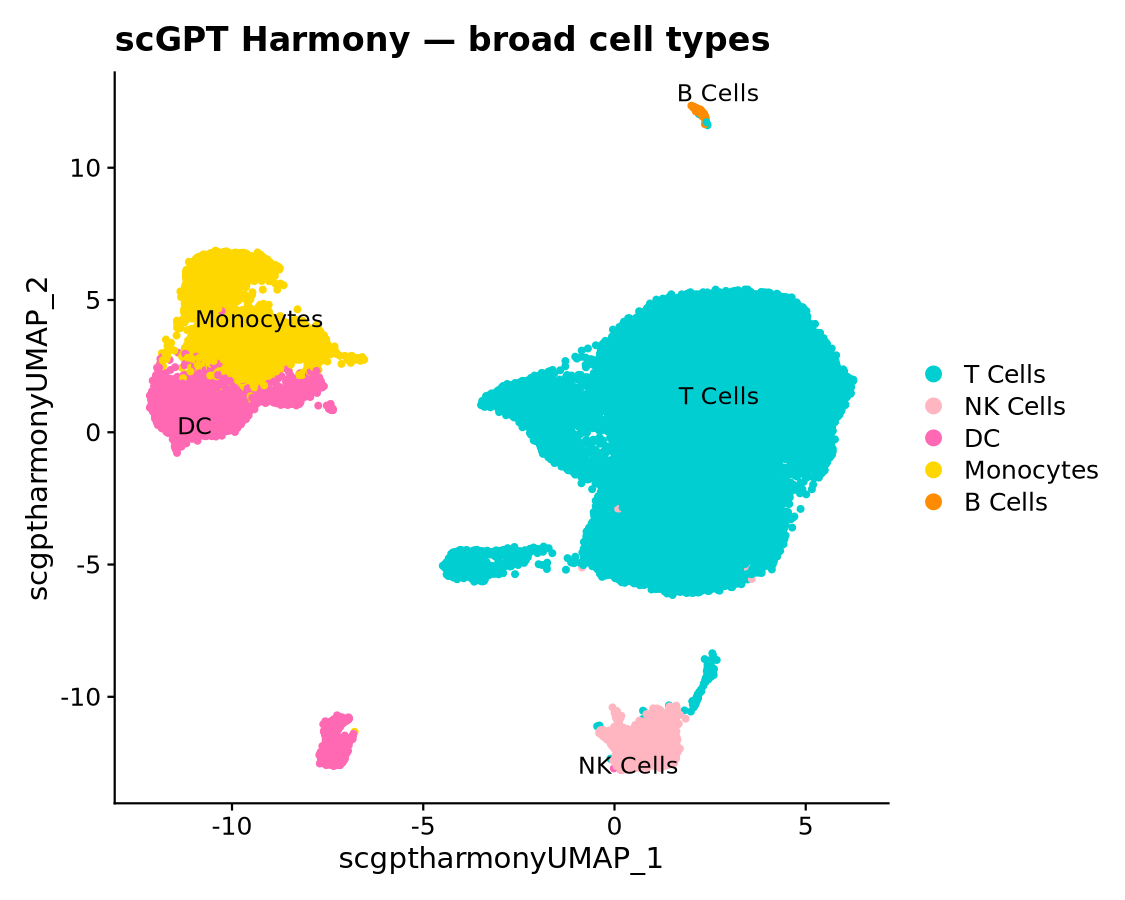
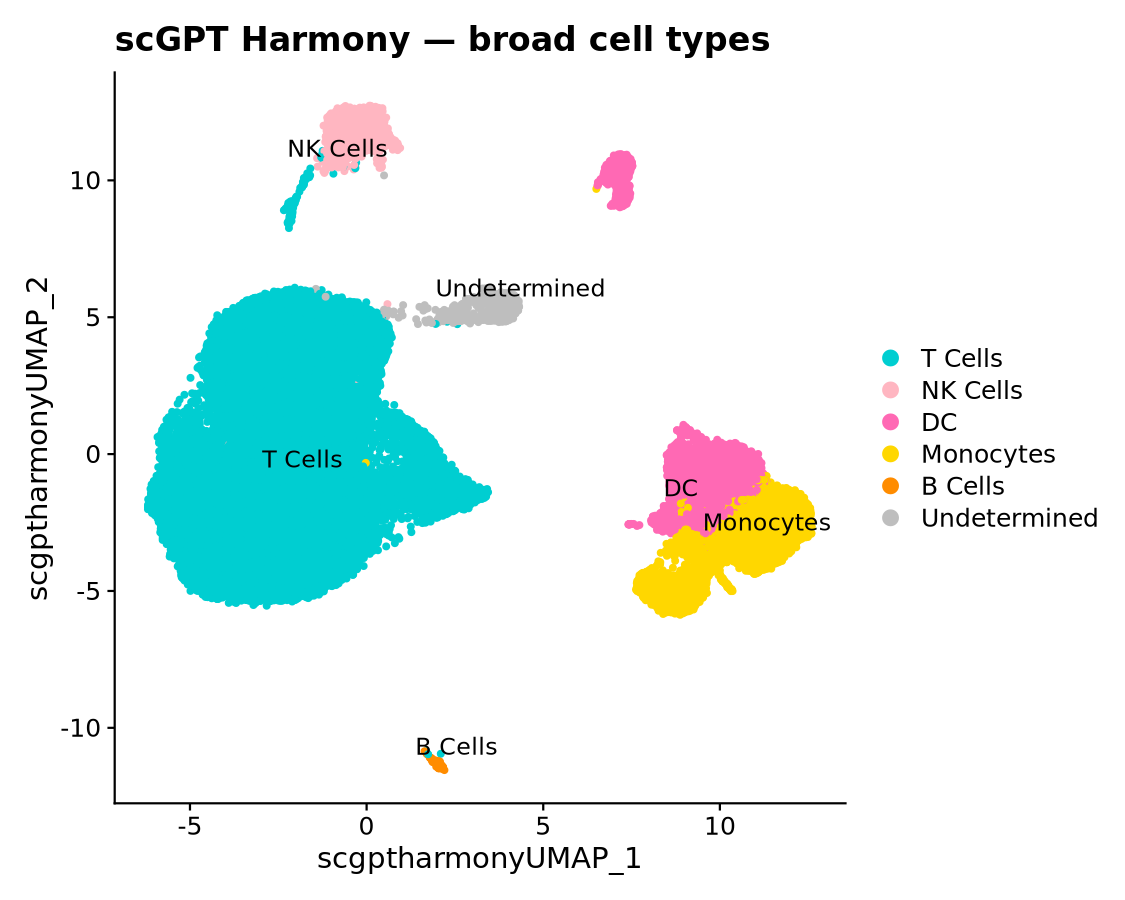
Annotate the rebuilt PCA arm and the current scGPT labels (Stage 15)
PCA cluster 3 (macrophage-like) is filed under Monocytes; PCA cluster 8 and
scGPT cluster 7, the same XIST/long-gene cells, are Undetermined. Docs and
the 08 README carry the new counts.

diff --git a/01_PROJECT_OVERVIEW/ANALYSIS_WALKTHROUGH.md b/01_PROJECT_OVERVIEW/ANALYSIS_WALKTHROUGH.md
@@ -29,12 +29,11 @@ as possible (SCT residuals, the quantity their integration consumes). On that fo
 neither representation wins on geometry: each partition scores best in its own space
 (PCA 0.176 in PCA space, scGPT 0.220 in scGPT space), and that holds at matched 512
 dimensions. After Harmony PCA mixes donors better locally (0.969 against 0.866), with
-lower donor NMI (0.038 against 0.051). Biological agreement is being redone for the
-rebuilt PCA arm.
+lower donor NMI (0.038 against 0.051). Both arms recover the same broad cell types,
+within 119 cells for every identity.
 
 **What remains unknown.** Whether the arms differ in biology at finer resolution:
-T-cell and monocyte subtypes. The broad annotation (Stage 15) is pending for the
-rebuilt PCA arm.
+T-cell and monocyte subtypes.
 
 **Immediate next step.** Recluster the T cells, then the monocytes, in both arms, and
 compare the subtype annotations.
@@ -703,18 +702,80 @@ cells.
 
 Both arms were run through the same marker discovery and evidence stages on the
 rebuilt PCA arm. The evidence tables are in `Age_trajectory/results/14_marker_evidence/`.
-Reading them into cell types is Stage 15 and is pending (section 8).
+Reading them into cell types is Stage 15 (section 8).
 
 ---
 
 ## 8. Broad cell-type annotation
 
-**Pending.** The hand annotation (Stage 15) was done on the earlier PCA arm (13
-clusters, built from the SCT `data` layer) and on the earlier `scgpt_harmony` labels.
-Both partitions have since changed, so those assignments no longer apply and their
-counts are not reported here. Stage 15 will be rerun after the proposed assignments
-for the rebuilt PCA arm are approved. The earlier results are in
-`Age_trajectory/results_superseded_2026-11-22/`.
+```mermaid
+flowchart TD
+    A[("Stage 14 · cluster_evidence_table.csv<br/>feature plots + panel percentages")]
+    B["<b>a person reads the evidence</b><br/><i>one decision per cluster, typed in</i>"]
+
+    C["<b>PCA-15 Harmony</b> · 12 clusters<br/>T 0,1,2,4,10 · Mono 3,7<br/>DC 5,9 · NK 6 · B 11 · Undet. 8"]
+    D["<b>scGPT Harmony</b> · 11 clusters<br/>T 0,1,4,10 · Mono 2,6<br/>DC 3,8 · NK 5 · B 9 · Undet. 7"]
+
+    E{"every cluster assigned once,<br/>every label one of the seven?"}
+    F["<b>stop</b><br/><i>a mistyped cluster number would<br/>silently drop cells from the figure</i>"]
+
+    G["<b>identity column per arm</b><br/>joined to the frozen labels by barcode"]
+    H(["annotated_cluster_labels.csv.gz<br/>annotation_rationale.csv<br/>15_celltypes_*.png"])
+
+    A --> B
+    B --> C --> E
+    B --> D --> E
+    E -->|no| F
+    E -->|yes| G --> H
+
+    style C fill:#dbe8f5,stroke:#4a6a8a
+    style D fill:#f0dbe8,stroke:#8a4a6a
+    style F fill:#f5d5d5,stroke:#a05050
+    style H fill:#d4e8d4,stroke:#4a7a4a
+```
+
+### What was done
+
+Following the authors, each cluster was assigned by hand, from its evidence row and
+feature plots, to one of their seven broad categories. This is only the authors' first
+pass. Their finer labels come from reclustering, which has not been done yet. Cluster
+numbers mean nothing across arms, so each arm was read from its own plots. The
+assignments were made on the rebuilt PCA arm (SCT residuals) and the current
+`scgpt_harmony` labels; the earlier annotation is superseded.
+
+Two judgement calls:
+- **PCA cluster 3** (5,267 cells: APOE, C1Q genes, LYVE1; CD14 and CD68 high) is
+  macrophage-like. It is filed under Monocytes because the authors' categories have
+  nothing closer.
+- **PCA cluster 8** (821 cells) is dominated by XIST and long-transcript genes (SYNE2,
+  MACF1, UTRN), with no canonical lineage marker above 50%. It spans 58 patients, so it
+  is not one donor's cells. It is Undetermined, a category the authors also used. The
+  same cells form scGPT cluster 7 (85% of PCA cluster 8 lands there), which gets the
+  same label.
+
+**Code.** `02_CODE/15_annotate_clusters.R`.
+
+![Broad cell types over the PCA-15 Harmony UMAP](../Age_trajectory/results/figures/15_celltypes_pca15_harmony_cluster.png)
+
+![Broad cell types over the scGPT Harmony UMAP](../Age_trajectory/results/figures/15_celltypes_scgpt_harmony_cluster.png)
+
+| identity | PCA-15 Harmony | scGPT Harmony | difference |
+| --- | --- | --- | --- |
+| T Cells | 54,803 | 54,684 | 119 |
+| Monocytes | 7,387 | 7,470 | 83 |
+| DC | 4,794 | 4,849 | 55 |
+| NK Cells | 2,369 | 2,305 | 64 |
+| B Cells | 217 | 208 | 9 |
+| Undetermined | 821 | 875 | 54 |
+
+### Conclusion
+
+Both representations recover nearly identical broad immune populations, within 119
+cells for every identity. `Plasma Cells` went unused in both arms. PCA's one extra
+cluster is a subdivision *within* T cells (PCA cluster 10, cycling cells; scGPT's cycling
+cluster 10 holds only 12% of them, and 60% sit in scGPT's large T cluster 1). At this resolution the arms are biologically equivalent.
+Both labels rest on the same hand reading, so agreement here does not say which
+partition is better.
 
 ---
 
@@ -765,8 +826,8 @@ flowchart LR
   Harmony-corrected.
 - **Separation tested.** Silhouette at native width, the PCA-512 dimensionality
   control, and the WCSS sweep, all rerun on the rebuilt PCA arm.
-- **Markers.** Frozen partitions and RNA marker evidence for both arms. Broad
-  annotation is pending a rerun.
+- **Biology checked.** Frozen partitions, RNA marker validation, and broad cell-type
+  annotation for both arms, redone on the rebuilt PCA arm.
 
 ## Main conclusion so far
 
@@ -775,8 +836,8 @@ neither representation separates clusters better in both spaces: each partition 
 highest in its own, at native width and at matched 512 dimensions. After Harmony, PCA
 has the lower donor NMI (0.038 against 0.051) and mixes donors better locally (0.969
 against 0.866). An earlier claim that scGPT separates clusters better came from a PCA
-arm built on the wrong layer and is withdrawn. Whether the arms differ in biology awaits
-the Stage 15 annotation of the rebuilt arm.
+arm built on the wrong layer and is withdrawn. Both arms recover the same broad cell types, so
+whether they differ in biology awaits T-cell and monocyte subclustering.
 
 ## Next step
 

diff --git a/03_RESULTS/08_CELL_TYPE_ANNOTATION/README.md b/03_RESULTS/08_CELL_TYPE_ANNOTATION/README.md
@@ -6,11 +6,22 @@
 row and feature plots and assigned one of the authors' seven categories. Cluster
 numbers do not carry across arms.
 
-**Status: pending.** The earlier assignments were made on a PCA arm built from the SCT
-`data` layer (13 clusters) and are superseded. The PCA arm has been rebuilt from SCT
-residuals (12 clusters), and `scgpt_harmony` shifted slightly, so Stage 15 will be rerun
-once the proposed assignments are approved. The earlier outputs are in
-`Age_trajectory/results_superseded_2026-11-22/`. The links below stay dangling until then.
+**Result.** Annotated on the rebuilt PCA arm (SCT residuals, 12 clusters) and the current
+`scgpt_harmony` labels; the earlier annotation is superseded. The two arms agree:
+
+| identity | PCA-15 Harmony | scGPT Harmony | difference |
+| --- | --- | --- | --- |
+| T Cells | 54,803 | 54,684 | 119 |
+| Monocytes | 7,387 | 7,470 | 83 |
+| DC | 4,794 | 4,849 | 55 |
+| NK Cells | 2,369 | 2,305 | 64 |
+| B Cells | 217 | 208 | 9 |
+| Undetermined | 821 | 875 | 54 |
+
+PCA cluster 3 (macrophage-like: APOE, C1Q genes, LYVE1) is filed under Monocytes. PCA
+cluster 8 and scGPT cluster 7 are the same cells, dominated by XIST and long-transcript
+genes with no canonical lineage marker, and are Undetermined. PCA's one extra cluster
+subdivides the T cells (cycling cells). `Plasma Cells` went unused in both arms.
 
 **This is the first of two passes.** Figure 1D's finer labels (CD4/CD8/Treg and the
 monocyte subtypes) come from reclustering the T-cell and monocyte subsets. That work is

diff --git a/01_PROJECT_OVERVIEW/STATUS.md b/01_PROJECT_OVERVIEW/STATUS.md
@@ -43,8 +43,10 @@ are in `Age_trajectory/results_superseded_2026-11-22/`.
   0.220 in scGPT space against PCA labels' 0.100. At matched 512 dimensions it is the
   same: PCA-512 labels 0.053 against −0.022 in PCA-512 space, scGPT labels 0.221
   against 0.136 in scGPT space. Neither description wins in both spaces.
-- **Biology:** pending. Broad annotation (Stage 15) is being redone for the rebuilt PCA
-  arm.
+- **Biology:** both arms resolve to the same broad cell types (T, monocyte, DC, NK,
+  B), within 119 cells for every identity. 821 PCA cells (875 in scGPT) are
+  Undetermined: a cluster dominated by XIST and long-transcript genes. PCA cluster 3
+  is macrophage-like and filed under Monocytes.
 
 ## Current interpretation
 

diff --git a/04_PAPER/paper_outline.md b/04_PAPER/paper_outline.md
@@ -3,7 +3,7 @@
 > **STALE, 2026-11-22.** This draft was written before the PCA arm was rebuilt from SCT
 > residuals. Its PCA numbers and its claims that scGPT is more donor-robust and
 > separates clusters better come from the superseded arm and no longer stand; see
-> `01_PROJECT_OVERVIEW/STATUS.md`. It will be rewritten after the Stage 15 annotation.
+> `01_PROJECT_OVERVIEW/STATUS.md`. It is to be rewritten.
 
 *Working outline. Numbers come from `01_PROJECT_OVERVIEW/ANALYSIS_WALKTHROUGH.md`.
 Items marked **PENDING** depend on the T-cell and monocyte subclustering, which has

diff --git a/04_PAPER/abstract.md b/04_PAPER/abstract.md
@@ -3,7 +3,7 @@
 > **STALE, 2026-11-22.** This draft was written before the PCA arm was rebuilt from SCT
 > residuals. Its PCA numbers and its claims that scGPT is more donor-robust and
 > separates clusters better come from the superseded arm and no longer stand; see
-> `01_PROJECT_OVERVIEW/STATUS.md`. It will be rewritten after the Stage 15 annotation.
+> `01_PROJECT_OVERVIEW/STATUS.md`. It is to be rewritten.
 
 *Draft. Bracketed text is a placeholder for the T-cell and monocyte subclustering,
 which has not been run. Word count excluding placeholders: ~260.*
